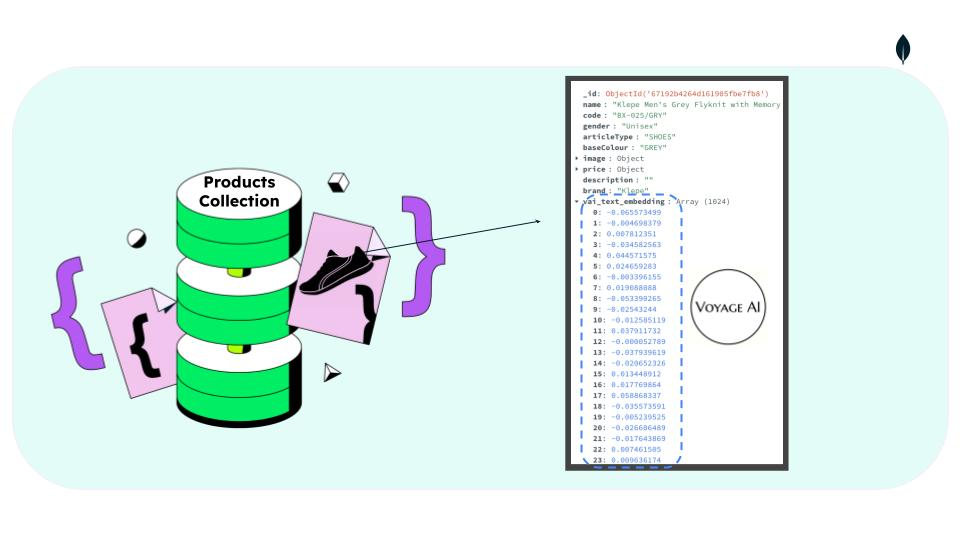
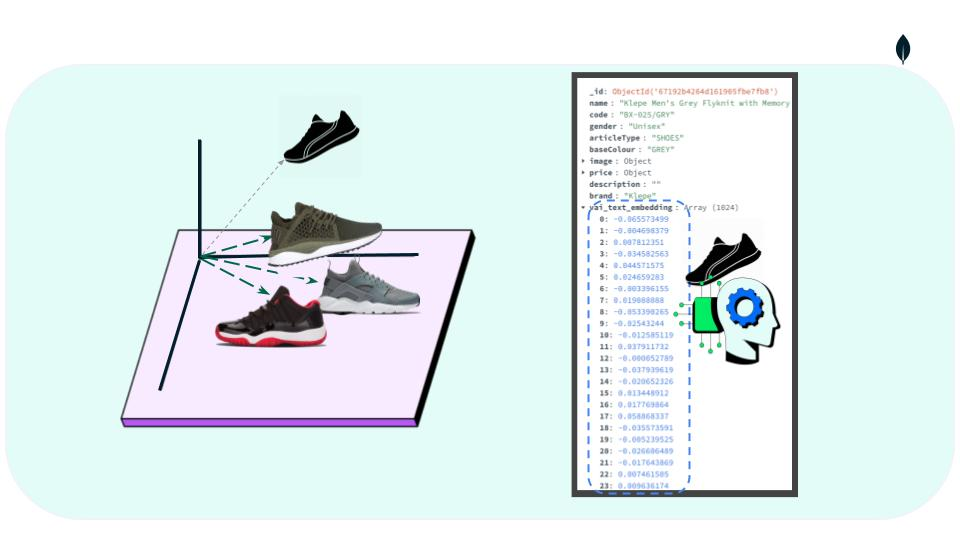
readme update

Changed region(s): [[0.0, 0.1185, 1.0, 0.9778], [0.0312, 0.2074, 0.5312, 0.8], [0.3438, 0.3259, 0.375, 0.3556]]

diff --git a/services/recommendation-ms/README.md b/services/recommendation-ms/README.md
@@ -61,7 +61,8 @@ This is how real-time recommendations happen:
 
 This design lets us combine the flexibility of MongoDB documents with the power of modern AI — all inside the same database.
 
-![Vector Search Flow](../../docs/images/vector-search.png)
+![VProducts Collection with Embeddings](../../docs/images/products-collectio-with-embeddings.png)
+![Vector Search on Products Collection](../../docs/images/vector-search.png)
 
 > 👉 [ADR 0009 – Why Product Vector Search Lives in recommendation-ms](../../docs/adr/0009-product-vector-search-in-recommendation.md)
 ---
